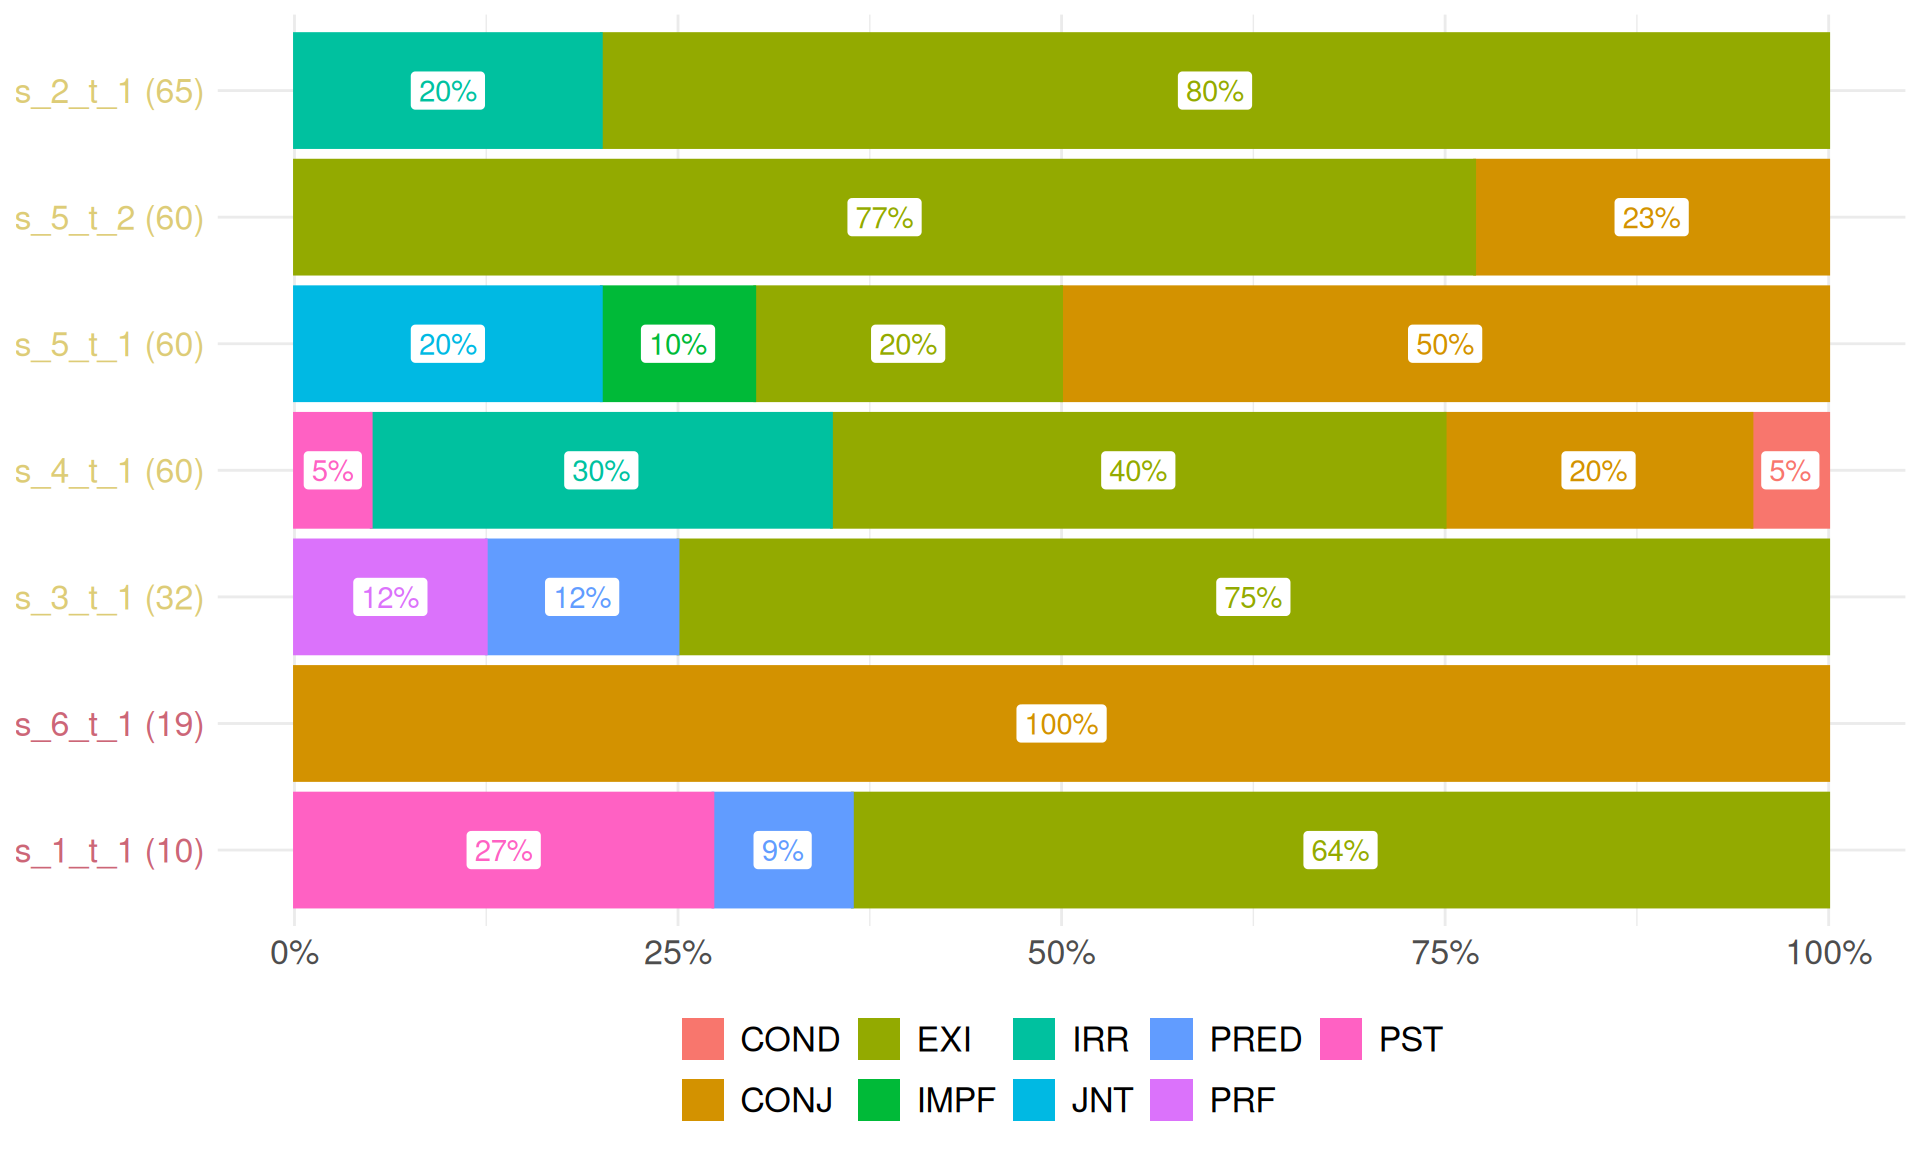
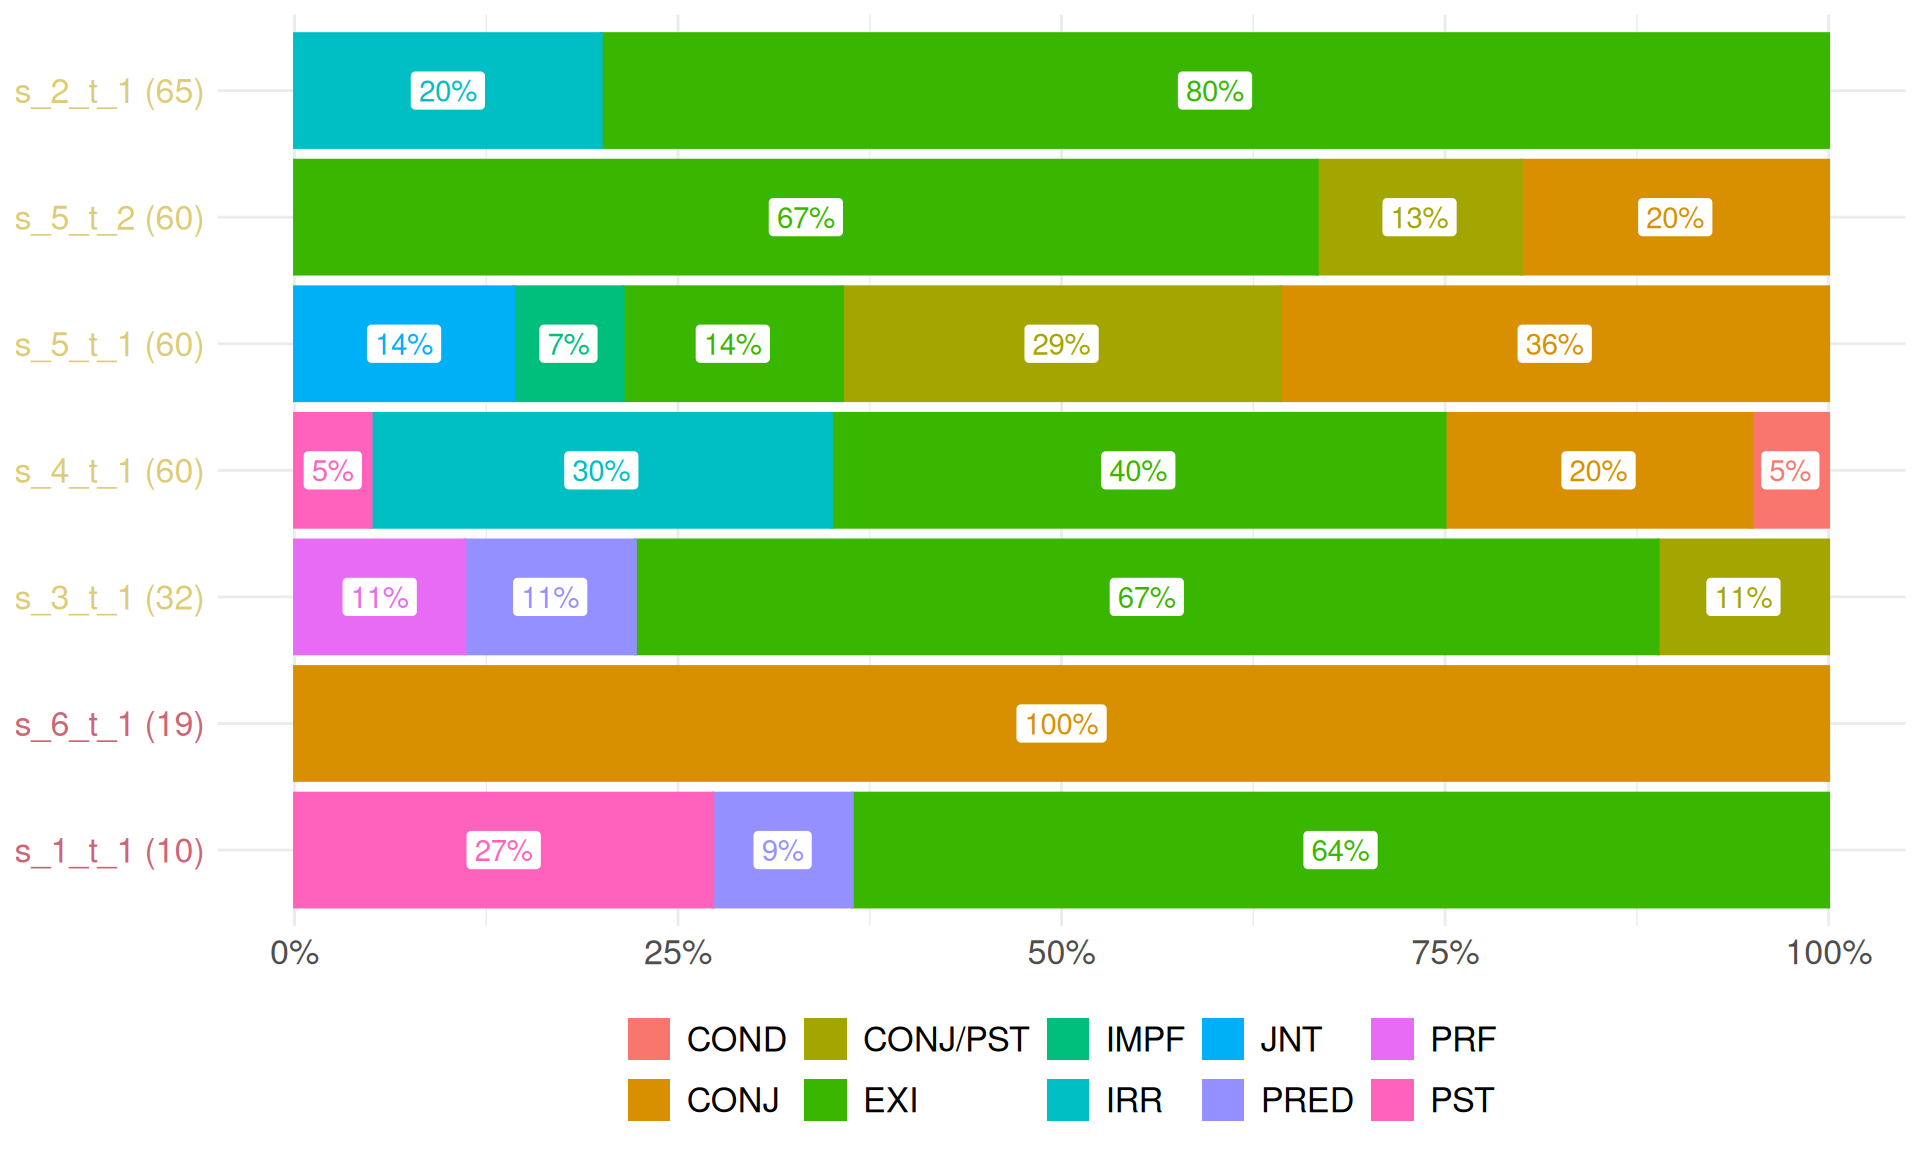
update

diff --git a/for_the_paper.html b/for_the_paper.html
@@ -1265,7 +1265,7 @@ pre > code.sourceCode > span > a:first-child::before { text-decoration: underlin
 <summary>Code</summary>
 <div class="sourceCode cell-code" id="cb30"><pre class="sourceCode r code-with-copy"><code class="sourceCode r"><span id="cb30-1"><a href="#cb30-1" aria-hidden="true" tabindex="-1"></a>kpelle_corpus <span class="sc">|&gt;</span> </span>
 <span id="cb30-2"><a href="#cb30-2" aria-hidden="true" tabindex="-1"></a>  <span class="fu">select</span>(new_source, group_var, chunk_structure) <span class="sc">|&gt;</span> </span>
-<span id="cb30-3"><a href="#cb30-3" aria-hidden="true" tabindex="-1"></a>  <span class="fu">mutate</span>(<span class="at">dur_ext =</span> <span class="fu">str_extract_all</span>(chunk_structure, <span class="st">"_[A-Z]*?_DUR"</span>)) <span class="sc">|&gt;</span> </span>
+<span id="cb30-3"><a href="#cb30-3" aria-hidden="true" tabindex="-1"></a>  <span class="fu">mutate</span>(<span class="at">dur_ext =</span> <span class="fu">str_extract_all</span>(chunk_structure, <span class="st">"_[/A-Z]*?_DUR"</span>)) <span class="sc">|&gt;</span> </span>
 <span id="cb30-4"><a href="#cb30-4" aria-hidden="true" tabindex="-1"></a>  <span class="fu">select</span>(<span class="sc">-</span>chunk_structure) <span class="sc">|&gt;</span> </span>
 <span id="cb30-5"><a href="#cb30-5" aria-hidden="true" tabindex="-1"></a>  <span class="fu">unnest_longer</span>(dur_ext) <span class="sc">|&gt;</span> </span>
 <span id="cb30-6"><a href="#cb30-6" aria-hidden="true" tabindex="-1"></a>  <span class="fu">mutate</span>(<span class="at">dur_ext =</span> <span class="fu">str_remove_all</span>(dur_ext, <span class="st">"_DUR"</span>),</span>
@@ -1276,7 +1276,7 @@ pre > code.sourceCode > span > a:first-child::before { text-decoration: underlin
 <div class="cell-output-display">
 <div data-pagedtable="false">
   <script data-pagedtable-source="" type="application/json">
-{"columns":[{"label":["new_source"],"name":[1],"type":["chr"],"align":["left"]},{"label":["group_var"],"name":[2],"type":["chr"],"align":["left"]},{"label":["EXI"],"name":[3],"type":["int"],"align":["right"]},{"label":["PRED"],"name":[4],"type":["int"],"align":["right"]},{"label":["PST"],"name":[5],"type":["int"],"align":["right"]},{"label":["IRR"],"name":[6],"type":["int"],"align":["right"]},{"label":["PRF"],"name":[7],"type":["int"],"align":["right"]},{"label":["COND"],"name":[8],"type":["int"],"align":["right"]},{"label":["CONJ"],"name":[9],"type":["int"],"align":["right"]},{"label":["IMPF"],"name":[10],"type":["int"],"align":["right"]},{"label":["JNT"],"name":[11],"type":["int"],"align":["right"]}],"data":[{"1":"s_1_t_1","2":"folktales (children)","3":"7","4":"1","5":"3","6":"0","7":"0","8":"0","9":"0","10":"0","11":"0"},{"1":"s_2_t_1","2":"folktales (adults)","3":"4","4":"0","5":"0","6":"1","7":"0","8":"0","9":"0","10":"0","11":"0"},{"1":"s_3_t_1","2":"folktales (adults)","3":"6","4":"1","5":"0","6":"0","7":"1","8":"0","9":"0","10":"0","11":"0"},{"1":"s_4_t_1","2":"folktales (adults)","3":"8","4":"0","5":"1","6":"6","7":"0","8":"1","9":"4","10":"0","11":"0"},{"1":"s_5_t_1","2":"folktales (adults)","3":"2","4":"0","5":"0","6":"0","7":"0","8":"0","9":"5","10":"1","11":"2"},{"1":"s_5_t_2","2":"folktales (adults)","3":"10","4":"0","5":"0","6":"0","7":"0","8":"0","9":"3","10":"0","11":"0"},{"1":"s_6_t_1","2":"folktales (children)","3":"0","4":"0","5":"0","6":"0","7":"0","8":"0","9":"1","10":"0","11":"0"}],"options":{"columns":{"min":{},"max":[10]},"rows":{"min":[10],"max":[10]},"pages":{}}}
+{"columns":[{"label":["new_source"],"name":[1],"type":["chr"],"align":["left"]},{"label":["group_var"],"name":[2],"type":["chr"],"align":["left"]},{"label":["EXI"],"name":[3],"type":["int"],"align":["right"]},{"label":["PRED"],"name":[4],"type":["int"],"align":["right"]},{"label":["PST"],"name":[5],"type":["int"],"align":["right"]},{"label":["IRR"],"name":[6],"type":["int"],"align":["right"]},{"label":["CONJ/PST"],"name":[7],"type":["int"],"align":["right"]},{"label":["PRF"],"name":[8],"type":["int"],"align":["right"]},{"label":["COND"],"name":[9],"type":["int"],"align":["right"]},{"label":["CONJ"],"name":[10],"type":["int"],"align":["right"]},{"label":["IMPF"],"name":[11],"type":["int"],"align":["right"]},{"label":["JNT"],"name":[12],"type":["int"],"align":["right"]}],"data":[{"1":"s_1_t_1","2":"folktales (children)","3":"7","4":"1","5":"3","6":"0","7":"0","8":"0","9":"0","10":"0","11":"0","12":"0"},{"1":"s_2_t_1","2":"folktales (adults)","3":"4","4":"0","5":"0","6":"1","7":"0","8":"0","9":"0","10":"0","11":"0","12":"0"},{"1":"s_3_t_1","2":"folktales (adults)","3":"6","4":"1","5":"0","6":"0","7":"1","8":"1","9":"0","10":"0","11":"0","12":"0"},{"1":"s_4_t_1","2":"folktales (adults)","3":"8","4":"0","5":"1","6":"6","7":"0","8":"0","9":"1","10":"4","11":"0","12":"0"},{"1":"s_5_t_1","2":"folktales (adults)","3":"2","4":"0","5":"0","6":"0","7":"4","8":"0","9":"0","10":"5","11":"1","12":"2"},{"1":"s_5_t_2","2":"folktales (adults)","3":"10","4":"0","5":"0","6":"0","7":"2","8":"0","9":"0","10":"3","11":"0","12":"0"},{"1":"s_6_t_1","2":"folktales (children)","3":"0","4":"0","5":"0","6":"0","7":"0","8":"0","9":"0","10":"1","11":"0","12":"0"}],"options":{"columns":{"min":{},"max":[10]},"rows":{"min":[10],"max":[10]},"pages":{}}}
   </script>
 </div>
 </div>
@@ -1284,7 +1284,7 @@ pre > code.sourceCode > span > a:first-child::before { text-decoration: underlin
 <summary>Code</summary>
 <div class="sourceCode cell-code" id="cb31"><pre class="sourceCode r code-with-copy"><code class="sourceCode r"><span id="cb31-1"><a href="#cb31-1" aria-hidden="true" tabindex="-1"></a>kpelle_corpus <span class="sc">|&gt;</span> </span>
 <span id="cb31-2"><a href="#cb31-2" aria-hidden="true" tabindex="-1"></a>  <span class="fu">select</span>(new_source, age, group_var, chunk_structure) <span class="sc">|&gt;</span> </span>
-<span id="cb31-3"><a href="#cb31-3" aria-hidden="true" tabindex="-1"></a>  <span class="fu">mutate</span>(<span class="at">dur_ext =</span> <span class="fu">str_extract_all</span>(chunk_structure, <span class="st">"_[A-Z]*?_DUR"</span>)) <span class="sc">|&gt;</span> </span>
+<span id="cb31-3"><a href="#cb31-3" aria-hidden="true" tabindex="-1"></a>  <span class="fu">mutate</span>(<span class="at">dur_ext =</span> <span class="fu">str_extract_all</span>(chunk_structure, <span class="st">"_[/A-Z]*?_DUR"</span>)) <span class="sc">|&gt;</span> </span>
 <span id="cb31-4"><a href="#cb31-4" aria-hidden="true" tabindex="-1"></a>  <span class="fu">select</span>(<span class="sc">-</span>chunk_structure) <span class="sc">|&gt;</span> </span>
 <span id="cb31-5"><a href="#cb31-5" aria-hidden="true" tabindex="-1"></a>  <span class="fu">unnest_longer</span>(dur_ext) <span class="sc">|&gt;</span> </span>
 <span id="cb31-6"><a href="#cb31-6" aria-hidden="true" tabindex="-1"></a>  <span class="fu">mutate</span>(<span class="at">dur_ext =</span> <span class="fu">str_remove_all</span>(dur_ext, <span class="st">"_DUR"</span>),</span>
